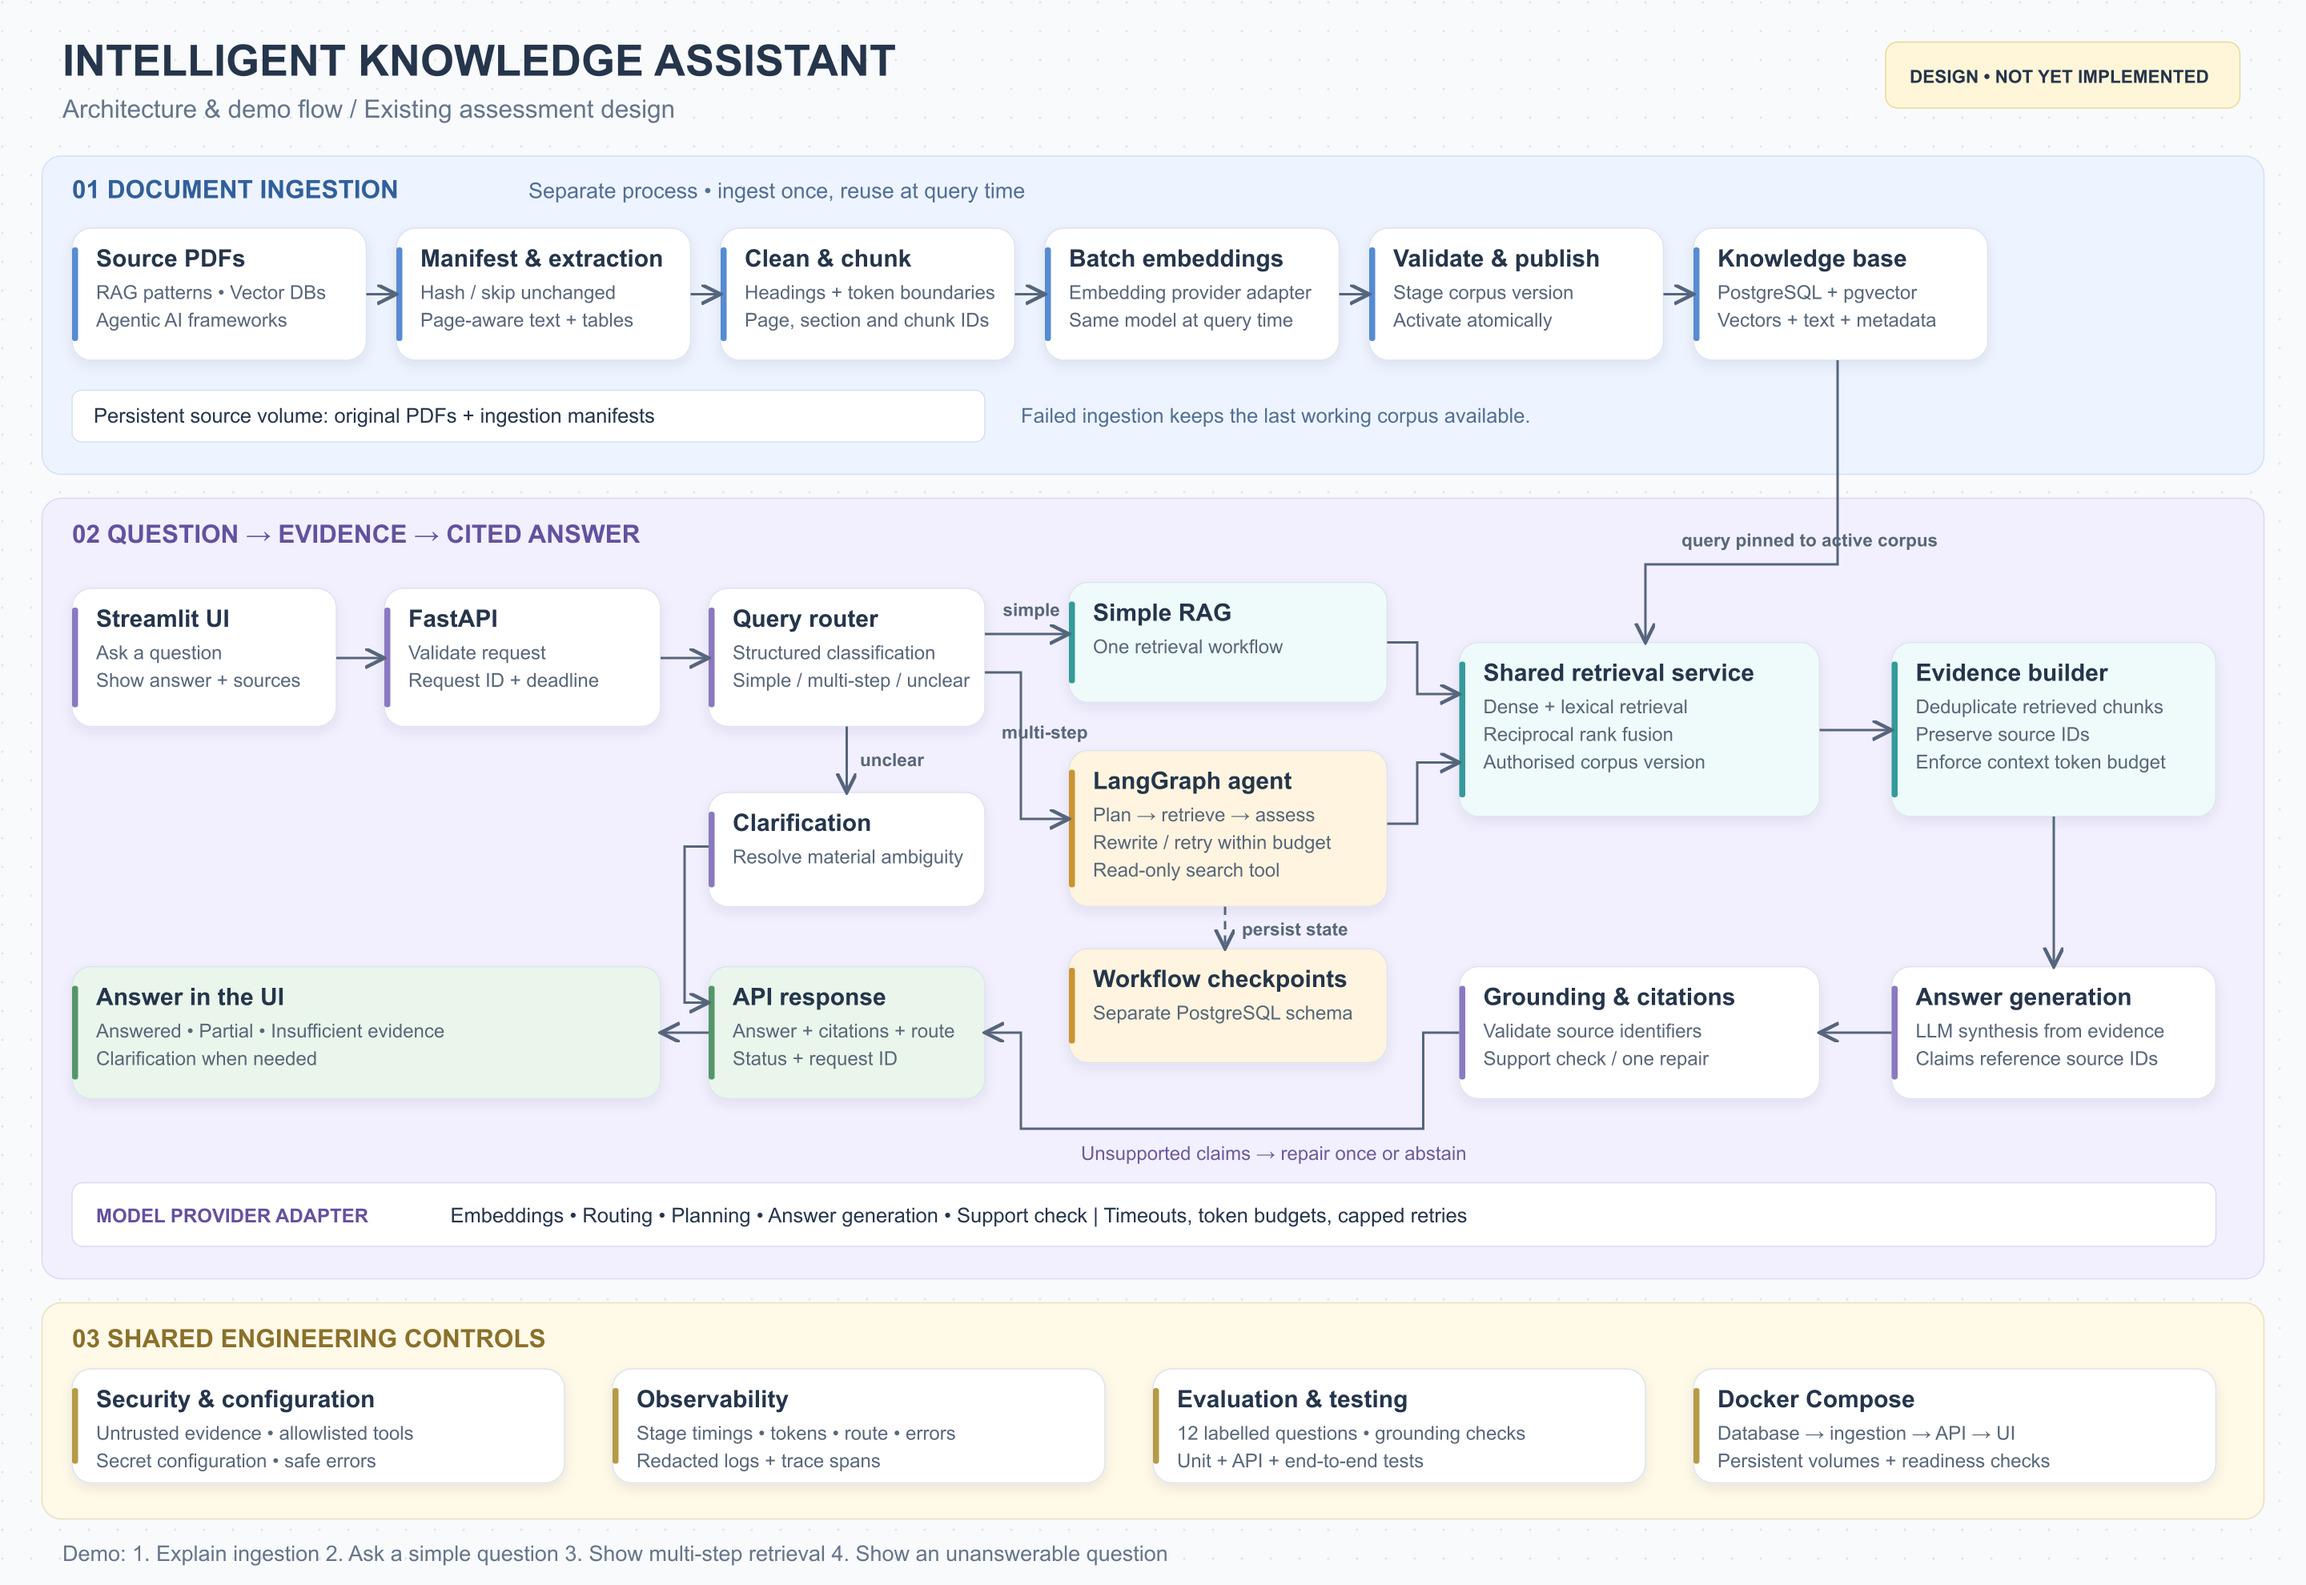
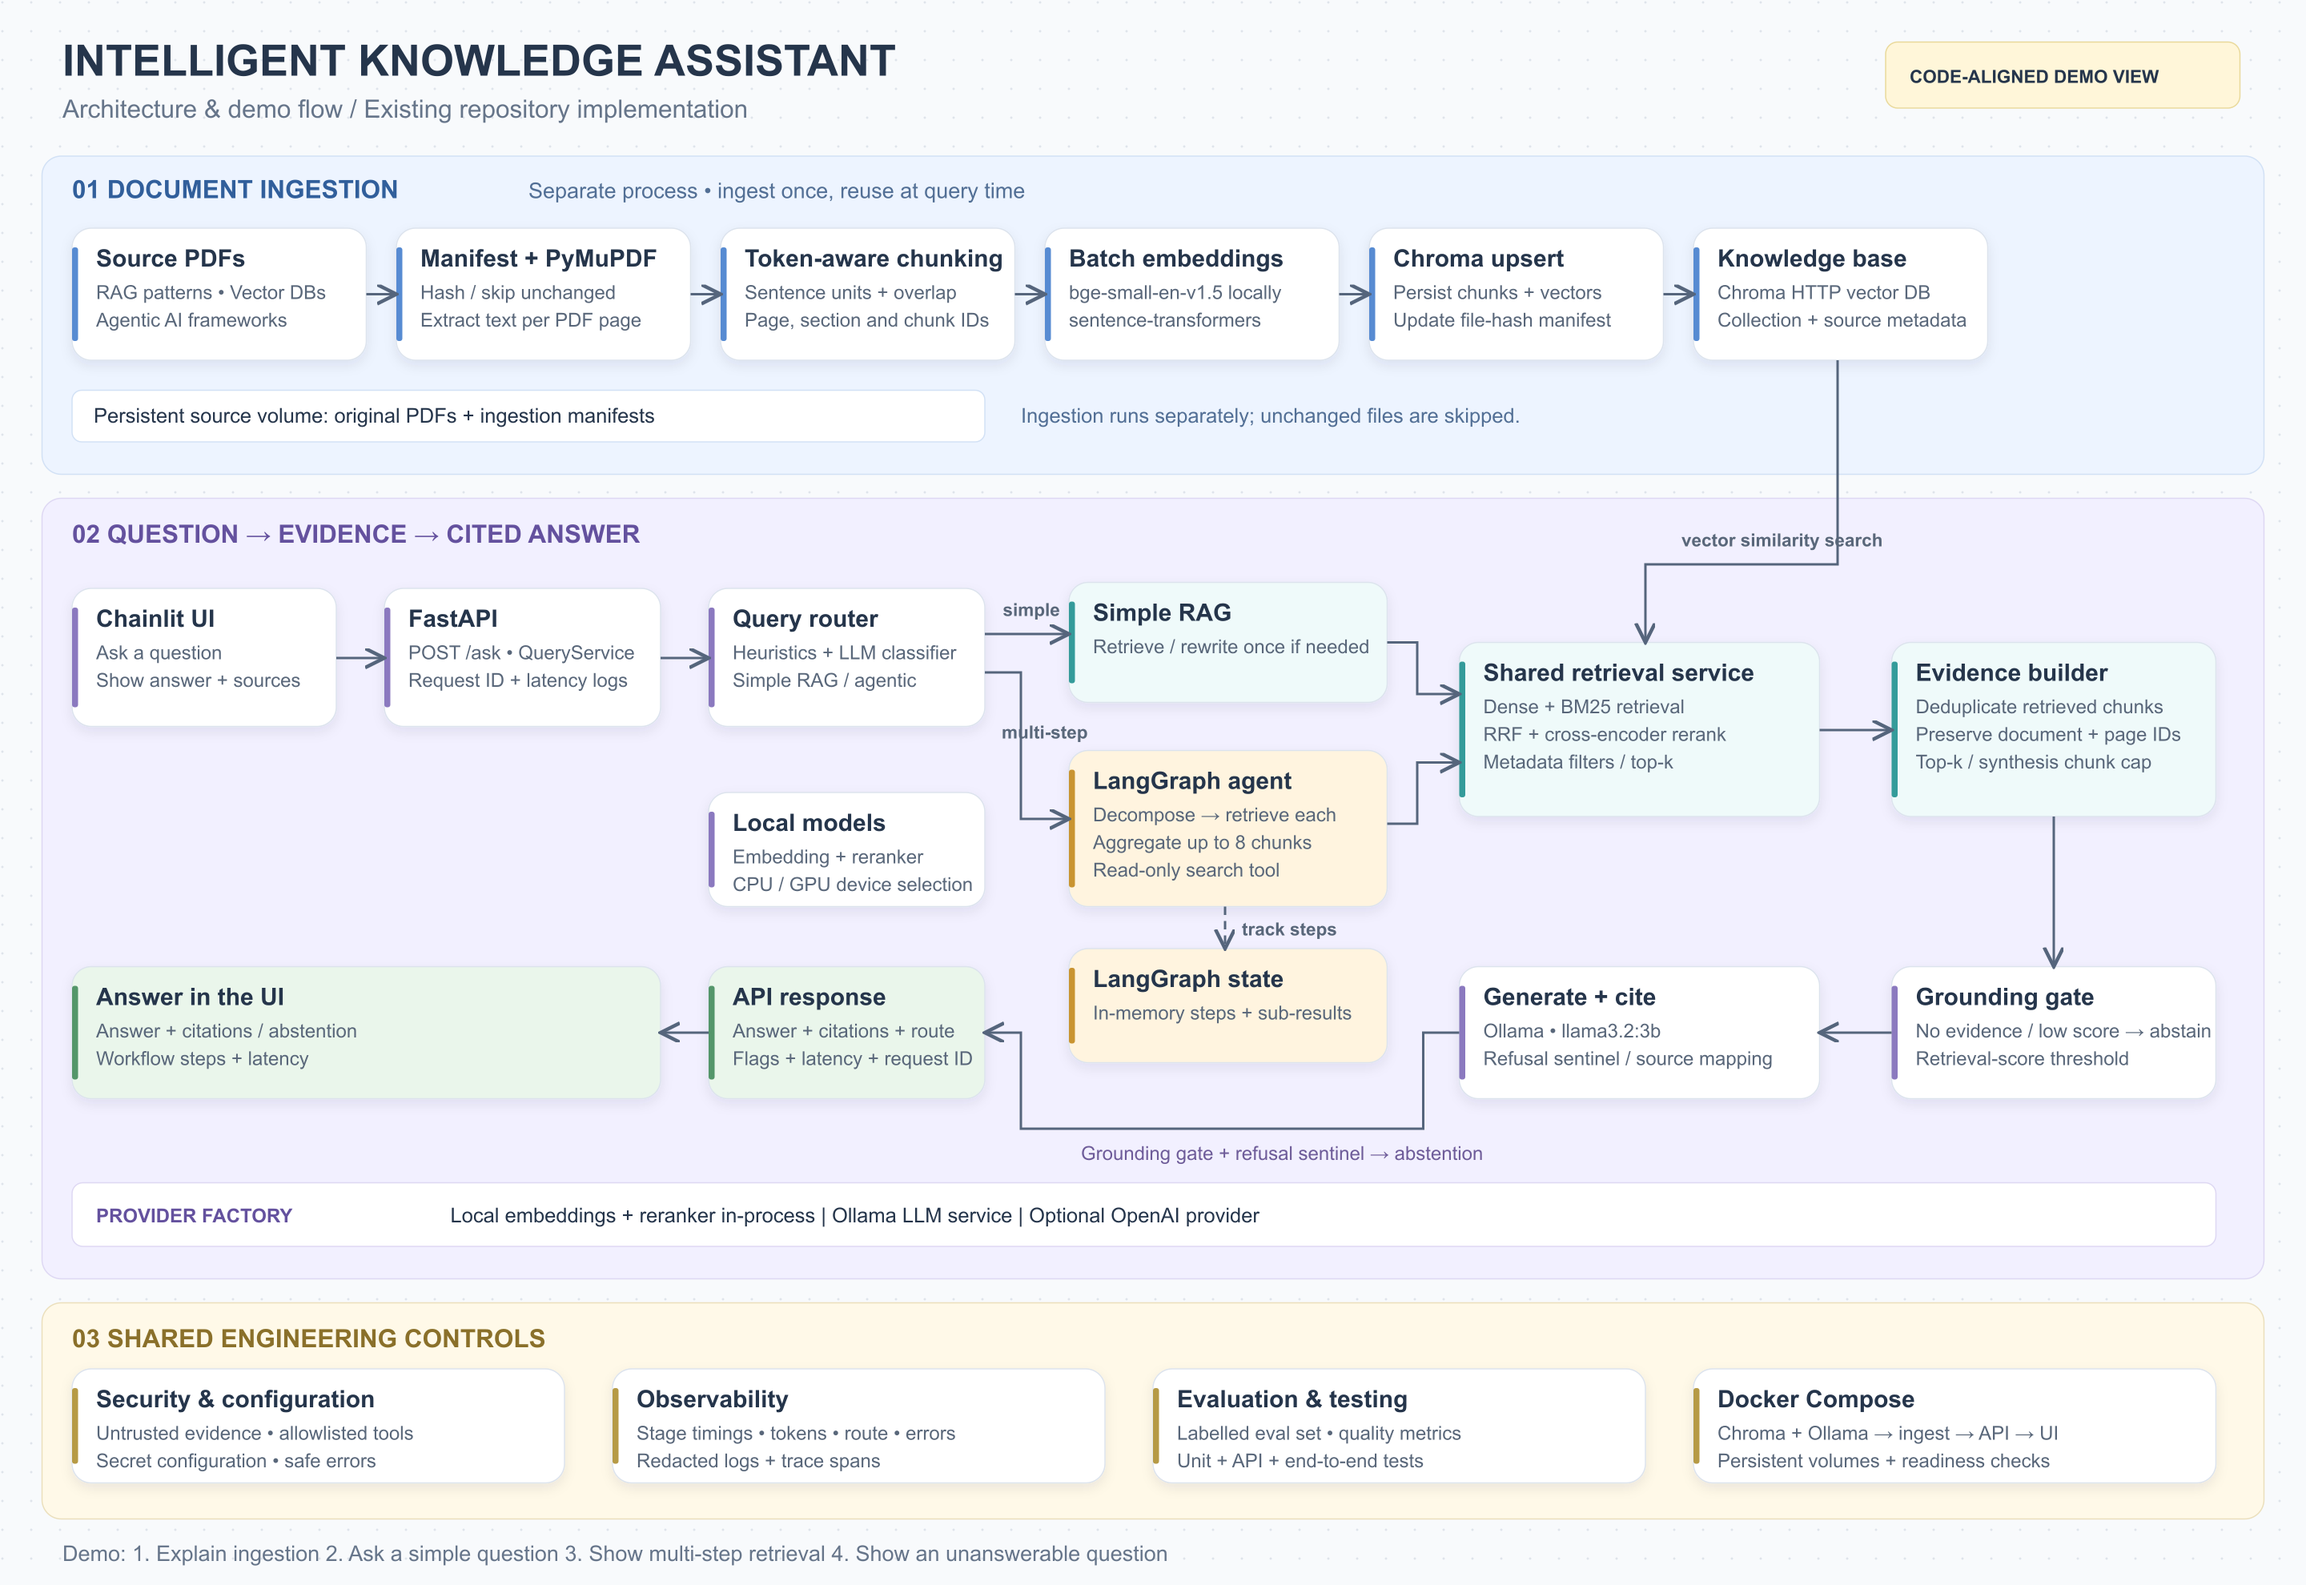
docs: align demo board with existing local-first implementation

diff --git a/docs/diagrams/build_architecture.py b/docs/diagrams/build_architecture.py
@@ -16,56 +16,56 @@ def arrow(points,label=None,lx=0,ly=0,dash=False):
  parts.append(f'<polyline points="{p}" fill="none" stroke="#55657c" stroke-width="2" marker-end="url(#arrow)"'+(' stroke-dasharray="7 5"' if dash else '')+'/>')
  if label:text(lx,ly,label,15,color='#59677a',weight=600)
 text(52,63,'INTELLIGENT KNOWLEDGE ASSISTANT',36,weight=700)
-text(52,98,'Architecture & demo flow  /  Existing assessment design',21,color='#66758a')
-rect(1570,35,295,55,'#fff6d9','#e9d99b',10);text(1590,69,'DESIGN • NOT YET IMPLEMENTED',15,weight=700)
+text(52,98,'Architecture & demo flow  /  Existing repository implementation',21,color='#66758a')
+rect(1570,35,295,55,'#fff6d9','#e9d99b',10);text(1590,69,'CODE-ALIGNED DEMO VIEW',15,weight=700)
 # ingestion
 rect(35,130,1850,265,'#edf4ff','#d2e1f5');text(60,165,'01  DOCUMENT INGESTION',21,'#315f9b',700);text(440,165,'Separate process • ingest once, reuse at query time',18,'#526f95')
 xs=[60,330,600,870,1140,1410]
-cards=[('Source PDFs',['RAG patterns • Vector DBs','Agentic AI frameworks']),('Manifest & extraction',['Hash / skip unchanged','Page-aware text + tables']),('Clean & chunk',['Headings + token boundaries','Page, section and chunk IDs']),('Batch embeddings',['Embedding provider adapter','Same model at query time']),('Validate & publish',['Stage corpus version','Activate atomically']),('Knowledge base',['PostgreSQL + pgvector','Vectors + text + metadata'])]
+cards=[('Source PDFs',['RAG patterns • Vector DBs','Agentic AI frameworks']),('Manifest + PyMuPDF',['Hash / skip unchanged','Extract text per PDF page']),('Token-aware chunking',['Sentence units + overlap','Page, section and chunk IDs']),('Batch embeddings',['bge-small-en-v1.5 locally','sentence-transformers']),('Chroma upsert',['Persist chunks + vectors','Update file-hash manifest']),('Knowledge base',['Chroma HTTP vector DB','Collection + source metadata'])]
 for x,(title,lines) in zip(xs,cards):card(x,190,245,110,title,lines,accent='#578bd2')
 for i in range(5):arrow([(xs[i]+245,245),(xs[i+1],245)])
 rect(60,325,760,43,'#fff','#d2e1f5',8);text(78,352,'Persistent source volume: original PDFs + ingestion manifests',17)
-text(850,352,'Failed ingestion keeps the last working corpus available.',17,'#526f95')
+text(850,352,'Ingestion runs separately; unchanged files are skipped.',17,'#526f95')
 # serving
 rect(35,415,1850,650,'#f2f0ff','#ded8f3');text(60,452,'02  QUESTION → EVIDENCE → CITED ANSWER',21,'#64519e',700)
-card(60,490,220,115,'Streamlit UI',['Ask a question','Show answer + sources'],accent='#8b79bf')
-card(320,490,230,115,'FastAPI',['Validate request','Request ID + deadline'],accent='#8b79bf')
-card(590,490,230,115,'Query router',['Structured classification','Simple / multi-step / unclear'],accent='#8b79bf')
+card(60,490,220,115,'Chainlit UI',['Ask a question','Show answer + sources'],accent='#8b79bf')
+card(320,490,230,115,'FastAPI',['POST /ask • QueryService','Request ID + latency logs'],accent='#8b79bf')
+card(590,490,230,115,'Query router',['Heuristics + LLM classifier','Simple RAG / agentic'],accent='#8b79bf')
 arrow([(280,548),(320,548)]);arrow([(550,548),(590,548)])
-card(890,485,265,100,'Simple RAG',['One retrieval workflow'], '#effafa','#349b9a')
-card(890,625,265,130,'LangGraph agent',['Plan → retrieve → assess','Rewrite / retry within budget','Read-only search tool'], '#fff4df','#c99431')
-card(590,660,230,95,'Clarification',['Resolve material ambiguity'],'#fff','#8b79bf')
+card(890,485,265,100,'Simple RAG',['Retrieve / rewrite once if needed'], '#effafa','#349b9a')
+card(890,625,265,130,'LangGraph agent',['Decompose → retrieve each','Aggregate up to 8 chunks','Read-only search tool'], '#fff4df','#c99431')
+card(590,660,230,95,'Local models',['Embedding + reranker','CPU / GPU device selection'],'#fff','#8b79bf')
 arrow([(820,528),(890,528)],'simple',835,513)
 arrow([(820,560),(850,560),(850,682),(890,682)],'multi-step',834,615)
-arrow([(705,605),(705,660)],'unclear',716,638)
-card(1215,535,300,145,'Shared retrieval service',['Dense + lexical retrieval','Reciprocal rank fusion','Authorised corpus version'], '#effafa','#349b9a')
+
+card(1215,535,300,145,'Shared retrieval service',['Dense + BM25 retrieval','RRF + cross-encoder rerank','Metadata filters / top-k'], '#effafa','#349b9a')
 arrow([(1155,535),(1180,535),(1180,578),(1215,578)])
 arrow([(1155,686),(1180,686),(1180,635),(1215,635)])
-card(1575,535,270,145,'Evidence builder',['Deduplicate retrieved chunks','Preserve source IDs','Enforce context token budget'], '#effafa','#349b9a')
+card(1575,535,270,145,'Evidence builder',['Deduplicate retrieved chunks','Preserve document + page IDs','Top-k / synthesis chunk cap'], '#effafa','#349b9a')
 arrow([(1515,608),(1575,608)])
-arrow([(1530,300),(1530,470),(1370,470),(1370,535)],'query pinned to active corpus',1400,455)
-card(890,790,265,95,'Workflow checkpoints',['Separate PostgreSQL schema'],'#fff4df','#c99431')
-arrow([(1020,755),(1020,790)],'persist state',1034,779,True)
+arrow([(1530,300),(1530,470),(1370,470),(1370,535)],'vector similarity search',1400,455)
+card(890,790,265,95,'LangGraph state',['In-memory steps + sub-results'],'#fff4df','#c99431')
+arrow([(1020,755),(1020,790)],'track steps',1034,779,True)
 # output row right to left
-card(1575,805,270,110,'Answer generation',['LLM synthesis from evidence','Claims reference source IDs'],'#fff','#8b79bf')
-card(1215,805,300,110,'Grounding & citations',['Validate source identifiers','Support check / one repair'],'#fff','#8b79bf')
-card(590,805,230,110,'API response',['Answer + citations + route','Status + request ID'],'#eaf6eb','#54966a')
-card(60,805,490,110,'Answer in the UI',['Answered • Partial • Insufficient evidence','Clarification when needed'],'#eaf6eb','#54966a')
+card(1575,805,270,110,'Grounding gate',['No evidence / low score → abstain','Retrieval-score threshold'],'#fff','#8b79bf')
+card(1215,805,300,110,'Generate + cite',['Ollama • llama3.2:3b','Refusal sentinel / source mapping'],'#fff','#8b79bf')
+card(590,805,230,110,'API response',['Answer + citations + route','Flags + latency + request ID'],'#eaf6eb','#54966a')
+card(60,805,490,110,'Answer in the UI',['Answer + citations / abstention','Workflow steps + latency'],'#eaf6eb','#54966a')
 arrow([(1710,680),(1710,805)])
 arrow([(1575,860),(1515,860)])
 arrow([(1215,860),(1185,860),(1185,940),(850,940),(850,860),(820,860)])
-text(900,966,'Unsupported claims → repair once or abstain',16,'#6e5c99')
+text(900,966,'Grounding gate + refusal sentinel → abstention',16,'#6e5c99')
 arrow([(590,860),(550,860)])
-arrow([(590,705),(570,705),(570,835),(590,835)])
+
 rect(60,985,1785,53,'#fff','#ded8f3',9)
-text(80,1018,'MODEL PROVIDER ADAPTER',16,'#64519e',700)
-text(375,1018,'Embeddings • Routing • Planning • Answer generation • Support check  |  Timeouts, token budgets, capped retries',17)
+text(80,1018,'PROVIDER FACTORY',16,'#64519e',700)
+text(375,1018,'Local embeddings + reranker in-process | Ollama LLM service | Optional OpenAI provider',17)
 # operations
 rect(35,1085,1850,180,'#fff9e8','#ebdfbc');text(60,1122,'03  SHARED ENGINEERING CONTROLS',21,'#8a702a',700)
 card(60,1140,410,95,'Security & configuration',['Untrusted evidence • allowlisted tools','Secret configuration • safe errors'],'#fff','#b69a45')
 card(510,1140,410,95,'Observability',['Stage timings • tokens • route • errors','Redacted logs + trace spans'],'#fff','#b69a45')
-card(960,1140,410,95,'Evaluation & testing',['12 labelled questions • grounding checks','Unit + API + end-to-end tests'],'#fff','#b69a45')
-card(1410,1140,435,95,'Docker Compose',['Database → ingestion → API → UI','Persistent volumes + readiness checks'],'#fff','#b69a45')
+card(960,1140,410,95,'Evaluation & testing',['Labelled eval set • quality metrics','Unit + API + end-to-end tests'],'#fff','#b69a45')
+card(1410,1140,435,95,'Docker Compose',['Chroma + Ollama → ingest → API → UI','Persistent volumes + readiness checks'],'#fff','#b69a45')
 text(52,1300,'Demo: 1. Explain ingestion   2. Ask a simple question   3. Show multi-step retrieval   4. Show an unanswerable question',18,color='#66758a')
 parts.append('</svg>')
 Path(__file__).with_name('architecture-demo.svg').write_text('\n'.join(parts))

diff --git a/docs/architecture.md b/docs/architecture.md
@@ -155,3 +155,13 @@ flowchart TD
   so "I don't know" is a designed outcome, not an accident.
 - **Separation of concerns** — ingestion, retrieval, generation, agent, and transport are independent
   and independently testable (48 hermetic tests).
+
+## Demo board
+
+The visual below follows the current implementation and default local providers.
+
+![Architecture and demo flow](diagrams/architecture-demo.png)
+
+[Editable SVG](diagrams/architecture-demo.svg) · [Generation script](diagrams/build_architecture.py)
+
+The separate [design proposal](design-proposal.md) records an earlier alternative design; it does not describe the implemented stack.
